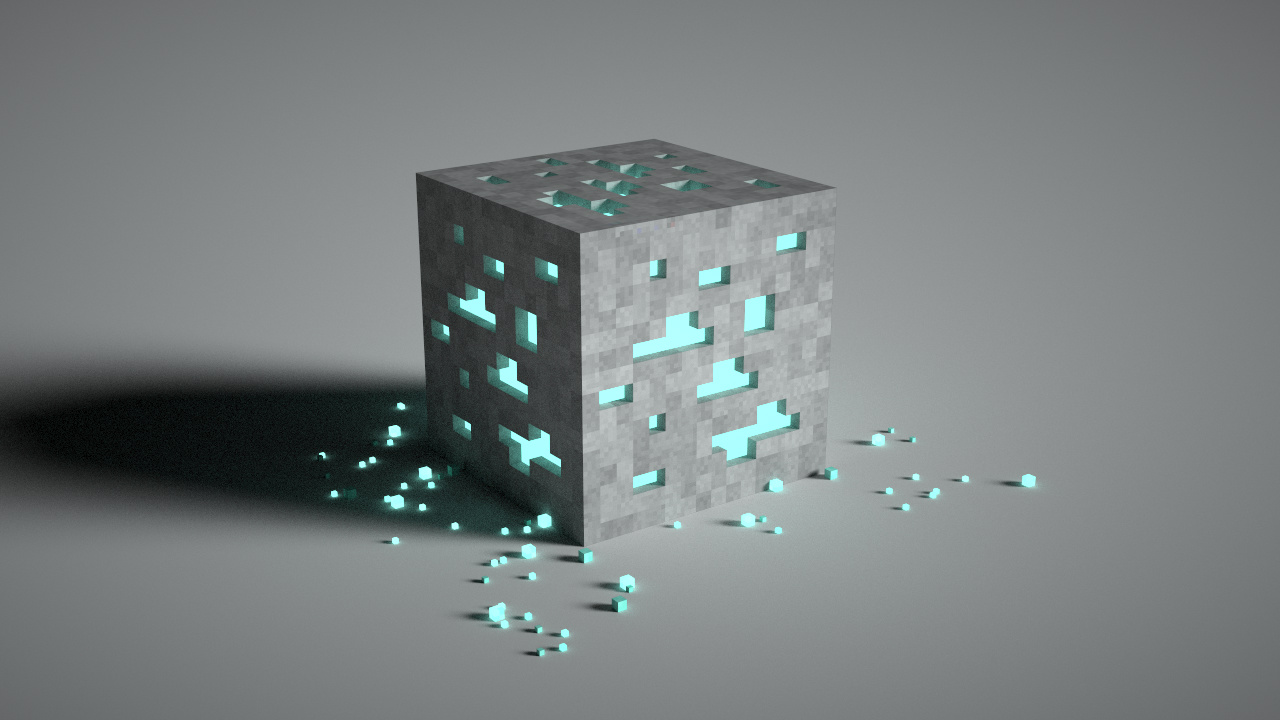
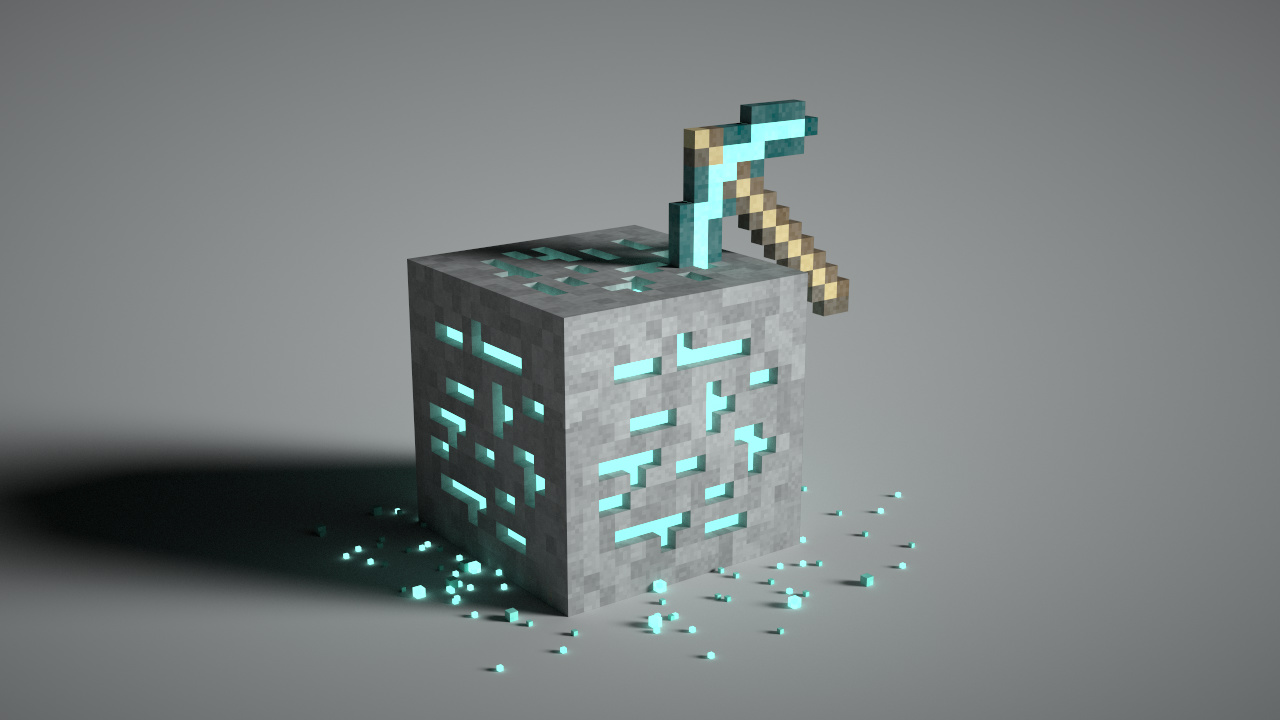
Update Diamond Ore

diff --git a/diamond_ore.py b/diamond_ore.py
@@ -5,38 +5,74 @@ scene.set_background_color((0.2, 0.2, 0.2))
 scene.set_floor(-1, (0.75, 0.75, 0.75))
 scene.set_directional_light((1, 0.5, -1), 0.3, (0.85, 0.9, 0.9))
 
[1 lines of base64/hex data omitted]
-mask = ti.field(ti.i32, (16, 16))
-for x, y in ti.ndrange(16, 16):
-    mask[y, x] = (maskData >> (16 * y + x)) & 1
-
 @ti.func
 def set(idx, mat, color, noise = vec3(0)): scene.set_voxel(idx, mat, color + ti.random() * noise)
 
+ore = ti.field(ti.i32, (16, 16))
+@ti.func
+def initializeOre():
+    i = 0
+    while i < 256:
+        d = ti.cast(4 * (ti.random() ** 2) + 2, ti.i32)
+        x0, y0 = ti.cast((13 - d) * ti.random() + 2, ti.i32), ti.cast(12 * ti.random() + 2, ti.i32)
+        ok = True
+        for x, y in ti.ndrange((x0 - 1, x0 + d + 1), (y0 - 1, y0 + 2)):
+            if ore[y, x]: ok = False
+        if ok:
+            for x in range(x0, x0 + d): ore[y0, x] = 1
+        i += 1
+    for x, y in ti.ndrange((2, 14), (2, 14)):
+        if ti.random() < 0.1 and ore[y, x - 1] == 0 and ore[y, x + 1] == 0: ore[y, x] = 2
+
+pickaxePaletteData = [vec3(0), vec3(0.1, 0.08, 0.05), vec3(0.15, 0.1, 0.05), vec3(0.5, 0.4, 0.2),
+    vec3(0, 0.1, 0.1), vec3(0.2, 0.7, 0.6)]
+pickaxePalette = vec3.field(shape = len(pickaxePaletteData))
+for i in range(len(pickaxePaletteData)): pickaxePalette[i] = pickaxePaletteData[i]
+pickaxe = ti.field(ti.i32, (13, 13))
+@ti.func
+def initializePickaxe():
+    pickaxe[0, 0] = 1
+    for i in range(11): pickaxe[i, i + 1] = 1; pickaxe[i + 1, i] = 2; pickaxe[i + 1, i + 1] = 3
+    for i in range(20):
+        a = i / 9 * 0.25 * pi
+        x, y = ti.min(ti.cast(8 * ti.cos(a), ti.i32), 7), ti.min(ti.cast(8 * ti.sin(a), ti.i32), 7)
+        pickaxe[4 + y, 4 + x] = 5; pickaxe[4 + x, 4 + y] = 5
+    for y, x in ti.ndrange(13, 13):
+        if pickaxe[y, x] == 0 and ((x > 0 and pickaxe[y, x - 1] == 5) or (x < 12 and pickaxe[y, x + 1] == 5)
+            or (y > 0 and pickaxe[y - 1, x] == 5) or (y < 12 and pickaxe[y + 1, x] == 5)): pickaxe[y, x] = 4
+
 @ti.kernel
 def initialize():
-    for x, z in ti.ndrange((-32, 32), (-32, 32)):
-        if ti.random() < 0.01:
-            mat = 2 if ti.random() < 0.7 else 1
-            for x1, y1, z1 in ti.ndrange(2, 2, 2):
-                set(vec3(2 * x + x1, -64 + y1, 2 * z + z1), mat, vec3(0.2, 0.7, 0.6), vec3(0.1))
-    for x, z in ti.ndrange((-64, 64), (-64, 64)):
-        if ti.random() < 0.005:
-            mat = 2 if ti.random() < 0.8 else 1
-            set(vec3(x, -64, z), mat, vec3(0.2, 0.7, 0.6), vec3(0.1))
-    for x, y, z in ti.ndrange((-29, 29), (-61, -3), (-29, 29)):
-        set(vec3(x, y, z), 2, vec3(0.2, 0.7, 0.6))
-    px, py, pz = -32, -64, -32
+    for _ in range(400):
+        size, mat = 2 if ti.random() < 0.2 else 1, 2 if ti.random() < 0.5 else 1
+        x, z = ti.cast(24 * ti.randn() - 8, ti.i32), ti.cast(24 * ti.randn() + 8, ti.i32)
+        x, z = ti.min(ti.max(x, -64), 64 - size), ti.min(ti.max(z, -64), 64 - size)
+        for x1, y1, z1 in ti.ndrange(size, size, size):
+            set(vec3(x + x1, -64 + y1, z + z1), mat, vec3(0.2, 0.7, 0.6), vec3(0.1))
+    
+    initializeOre()
+    px, py, pz, s = -40, -64, -24, 4
+    for P in ti.grouped(ti.ndrange((px + s - 1, px + 15 * s + 1), (py + s - 1, py + 15 * s + 1),
+        (pz + s - 1, pz + 15 * s + 1))): set(P, 2, vec3(0.2, 0.7, 0.6))
     for x, y in ti.ndrange(16, 16):
-        if not mask[y, x]:
-            color = vec3(0.2, 0.2, 0.2) + ti.random() * vec3(0.1, 0.1, 0.1)
-            noise = vec3(0.05)
-            for x1, y1, z1 in ti.ndrange(4, 4, 4):
-                set(vec3(px + 60 - 4 * x + x1, py + 60 - 4 * y + y1, pz + z1), 1, color, noise)
-                set(vec3(px + 4 * x + x1, py + 60 - 4 * y + y1, pz + 60 + z1), 1, color, noise)
-                set(vec3(px + 60 - 4 * x + x1, py + y1, pz + 4 * y + z1), 1, color, noise)
-                set(vec3(px + 4 * x + x1, py + 60 + y1, pz + 4 * y + z1), 1, color, noise)
-                set(vec3(px + x1, py + 60 - 4 * y + y1, pz + 4 * x + z1), 1, color, noise)
-                set(vec3(px + 60 + x1, py + 60 - 4 * y + y1, pz + 60 - 4 * x + z1), 1, color, noise)
+        if not ore[y, x]:
+            color, noise = vec3(0.2) + ti.random() * vec3(0.1), vec3(0.05)
+            for x1, y1, z1 in ti.ndrange(s, s, s):
+                set(vec3(px + s * (15 - x) + x1, py + s * (15 - y) + y1, pz + z1), 1, color, noise)
+                set(vec3(px + s * x + x1, py + s * (15 - y) + y1, pz + 15 * s + z1), 1, color, noise)
+                set(vec3(px + s * (15 - x) + x1, py + y1, pz + s * y + z1), 1, color, noise)
+                set(vec3(px + s * x + x1, py + 15 * s + y1, pz + s * y + z1), 1, color, noise)
+                set(vec3(px + x1, py + s * (15 - y) + y1, pz + s * x + z1), 1, color, noise)
+                set(vec3(px + 15 * s + x1, py + s * (15 - y) + y1, pz + s * (15 - x) + z1), 1, color, noise)
+    
+    initializePickaxe()
+    px, py, pz, s = 0, -18, -56, 4
+    for x, y in ti.ndrange(13, 13):
+        d = pickaxe[y, x]
+        if d != 0:
+            color, noise = pickaxePalette[d] + ti.random() * vec3(0.05), vec3(0.05)
+            mat = 2 if d == 5 else 1
+            for x1, y1, z1 in ti.ndrange(s, s, s):
+                set(vec3(px + x1, py + s * y + y1, pz + s * x + z1), mat, color, noise)
 
 initialize(); scene.finish()
